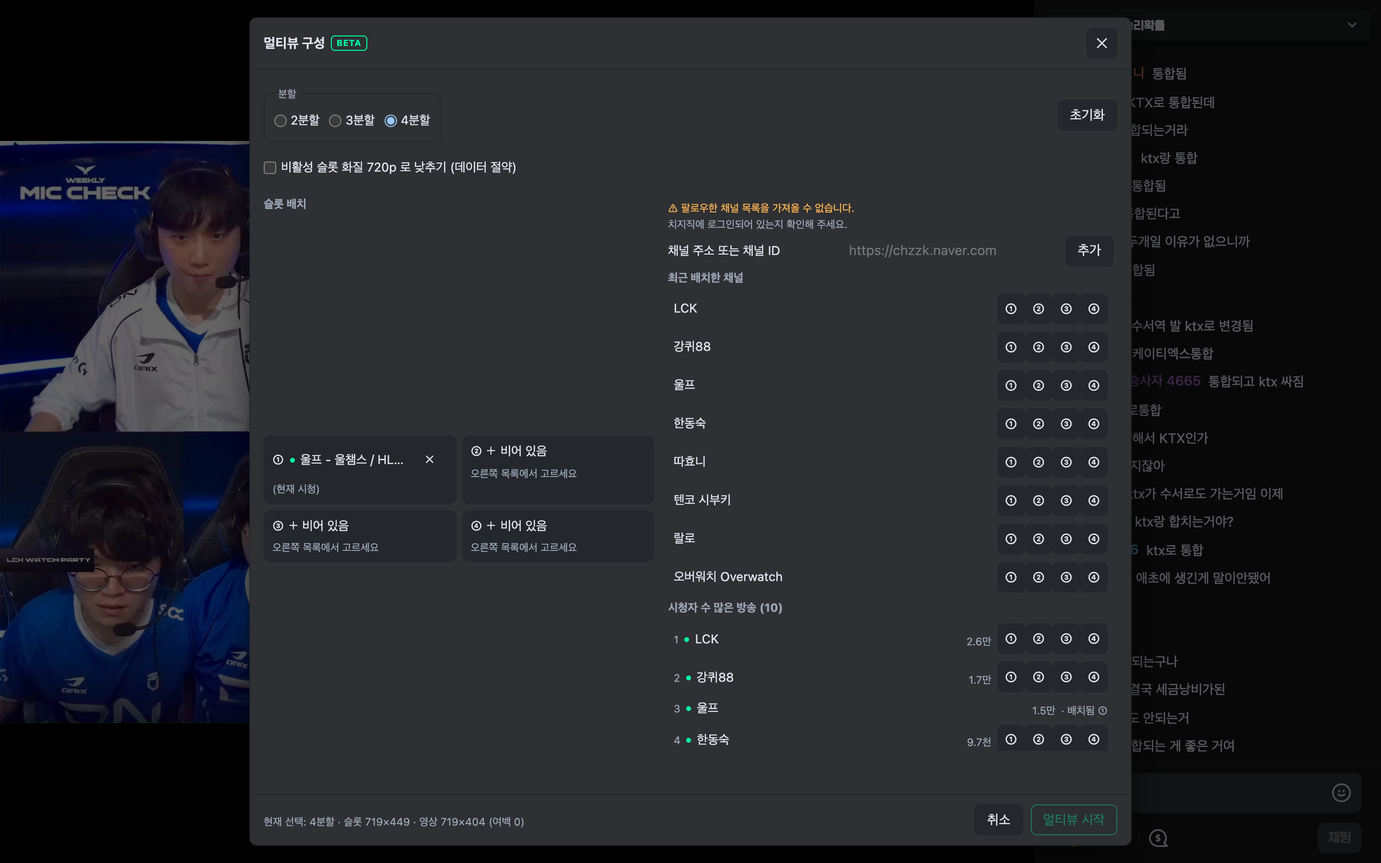
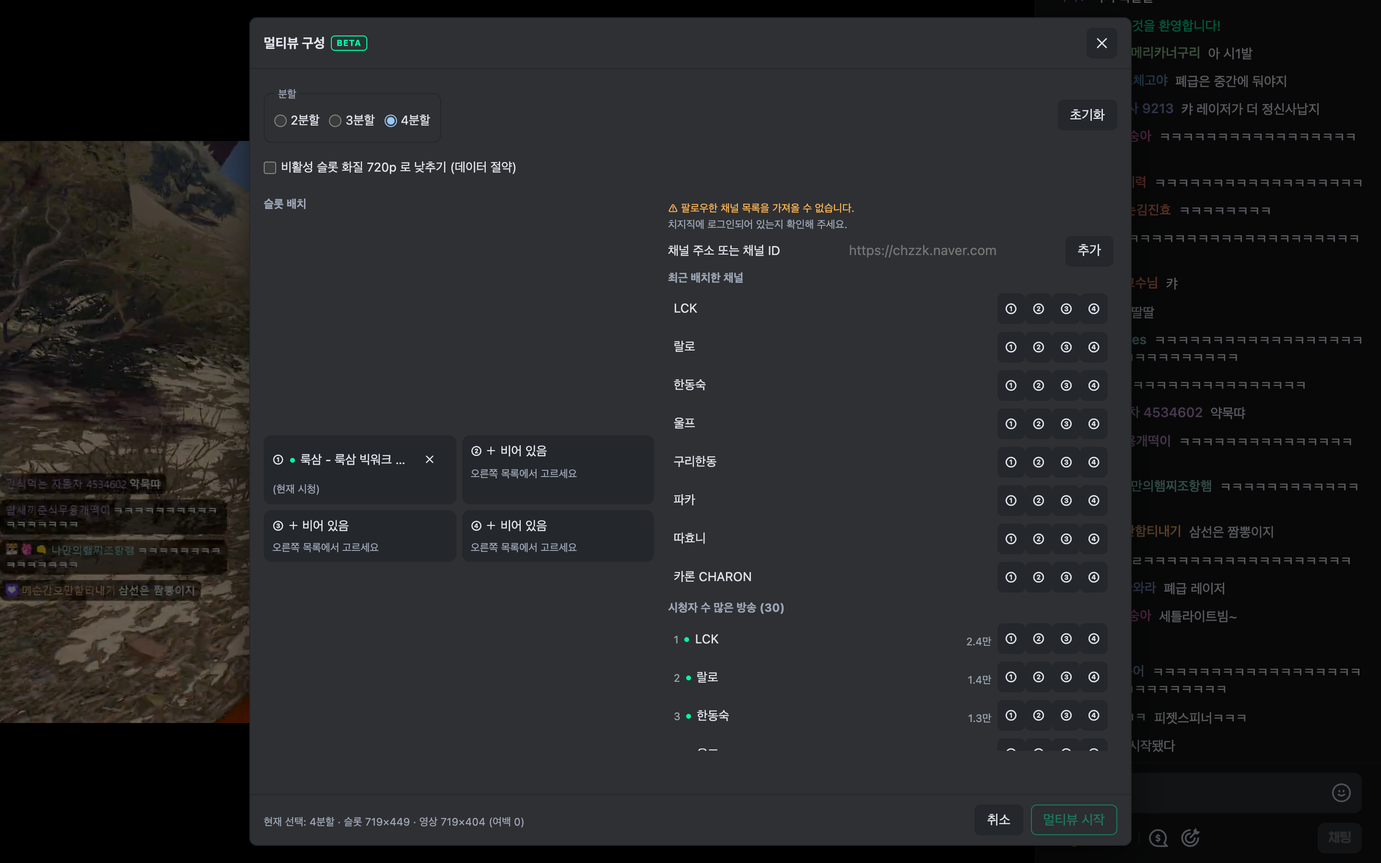
feat: Reach extension settings during multiview, other multiview polish
- Settings panel (volume, compressor, etc.) was unreachable while
  multiview was open — the stage covers the whole screen so the host
  control bar's gear button is hidden underneath it. Add a dedicated
  settings button to the stage's own operation bar (hammer icon,
  distinct from CHZZK's native gear icon) that opens the same settings
  sheet via a window custom event; the sheet's z-index already sits
  above the stage's, so it renders correctly. Verified in a real
  browser: click opens the panel with the 소리 tab's compressor toggle
  reachable and working.
- Offline followed channels no longer show in the multiview channel
  picker — picking one just leaves an empty slot, so they're filtered
  out (with a distinct empty-state message per case: no follows vs.
  none live vs. no search match).
- "더 보기" now loads 30 popular channels per click instead of 10.
- Added a defensive play() retry right after the slot registration
  auto-unmute, for a reported (but not reproduced despite repeated
  real-browser testing) case where autoplay doesn't resume after
  reconfiguring an open multiview session.
- README: corrected the audio compressor's documented default (it's
  enabled by default, the doc said otherwise) and reformatted the
  change history into per-date sections instead of run-on sentences.
- Refreshed demo screenshots.

diff --git a/src/features/multiView/ConfigSheet.tsx b/src/features/multiView/ConfigSheet.tsx
@@ -181,11 +181,18 @@ export function ConfigSheet({
     setFollowVisible(FOLLOW_PAGE_SIZE);
   }, [query]);
 
+  /**
+   * 🔴 오프라인 팔로우 채널은 목록에서 아예 뺀다 (사용자 요청 2026-08-23).
+   * 멀티뷰 슬롯은 지금 방송 중인 채널을 고르는 화면이라, 꺼진 채널을 골라도 빈 슬롯만
+   * 남는다 — 정렬로 뒤로 미루는 것(`followList.ts` 의 `live` 우선 정렬)만으로는
+   * 목록 절반이 고를 수 없는 항목으로 채워지는 문제가 그대로 남는다.
+   */
   const visibleChannels = useMemo(() => {
     if (list.kind !== 'ready') return [];
+    const live = list.channels.filter((c) => c.live);
     const q = query.trim().toLowerCase();
-    if (q.length === 0) return list.channels;
-    return list.channels.filter((c) => c.channelName.toLowerCase().includes(q));
+    if (q.length === 0) return live;
+    return live.filter((c) => c.channelName.toLowerCase().includes(q));
   }, [list, query]);
 
   /** 팔로우를 끝까지 보여 줬는가 — 인기 방송을 이어 붙일지 판단한다. */
@@ -555,24 +562,28 @@ export function ConfigSheet({
                     onChange={(e) => setQuery(e.target.value)}
                   />
                 </div>
+                {visibleChannels.length === 0 ? (
+                  <p className="cm-sheet__note">
+                    {list.channels.length === 0
+                      ? '팔로우한 채널이 없습니다.'
+                      : query.trim().length > 0
+                        ? '검색 결과가 없습니다.'
+                        : '지금 방송 중인 팔로우 채널이 없습니다.'}
+                  </p>
+                ) : null}
                 <ul className="cm-mv-channels">
                   {visibleChannels.slice(0, followVisible).map((channel) => {
                     const placedAt = placedIndexOf(channel.channelId);
                     return (
-                      <li key={channel.channelId} className={channel.live ? '' : 'cm-offline'}>
+                      <li key={channel.channelId}>
                         <span style={{ display: 'inline-flex', alignItems: 'center', gap: 4 }}>
-                          <LiveDotIcon
-                            size={10}
-                            className={channel.live ? 'cm-mv-live--on' : 'cm-mv-live--off'}
-                          />
+                          <LiveDotIcon size={10} className="cm-mv-live--on" />
                           {/* 🔴 색만으로 상태를 전달하지 않는다 — 색약 사용자를 위해 텍스트를 남긴다. */}
-                          <span className={OURS.srOnlyClass}>
-                            {channel.live ? '방송중' : '오프라인'}
-                          </span>
+                          <span className={OURS.srOnlyClass}>방송중</span>
                           {channel.channelName}
                         </span>
                         <span className="cm-sheet__note">
-                          {channel.live ? formatViewers(channel.concurrentUserCount) : '오프라인'}
+                          {formatViewers(channel.concurrentUserCount)}
                         </span>
                         {placedAt !== null ? (
                           <span className="cm-sheet__note">· 배치됨 {CIRCLED[placedAt - 1]}</span>
@@ -672,7 +683,7 @@ export function ConfigSheet({
                     className="cm-sheet__btn"
                     onClick={() => void loadMorePopular()}
                   >
-                    더 보기 (10개)
+                    더 보기 (30개)
                   </button>
                 ) : null}
               </>

diff --git a/src/features/multiView/ConfigSheet.test.tsx b/src/features/multiView/ConfigSheet.test.tsx
@@ -68,11 +68,11 @@ afterEach(() => {
   vi.clearAllMocks();
 });
 
-function followChannel(n: number): FollowChannel {
+function followChannel(n: number, { live = true }: { live?: boolean } = {}): FollowChannel {
   return {
     channelId: `follow-${n}`,
     channelName: `팔로우채널${n}`,
-    live: true,
+    live,
     concurrentUserCount: n,
   };
 }
@@ -177,6 +177,45 @@ describe('ConfigSheet — 채널 목록 섹션은 하나만 렌더된다', () =>
     );
     expect(headings.some((t) => t?.includes('시청자 수 많은 방송'))).toBe(true);
     expect(document.querySelectorAll('.cm-mv-channels > li').length).toBeGreaterThan(0);
+  });
+});
+
+/**
+ * 🔴 사용자 요청 (2026-08-23): 멀티뷰는 지금 방송 중인 채널을 고르는 화면이라, 팔로우한
+ * 채널이라도 지금 오프라인이면 골라도 빈 슬롯만 남는다 — 목록에서 아예 뺀다.
+ */
+describe('ConfigSheet — 팔로우 채널 목록에서 오프라인은 뺀다 (2026-08-23)', () => {
+  it('오프라인 팔로우 채널은 목록에 나타나지 않는다', async () => {
+    vi.mocked(fetchFollowings).mockResolvedValue({
+      ok: true,
+      channels: [followChannel(1, { live: true }), followChannel(2, { live: false })],
+    });
+    vi.mocked(fetchLivePage).mockResolvedValue({ channels: [popularChannel(1)], next: null });
+
+    await mount(<ConfigSheet {...baseProps()} />);
+    await act(async () => {
+      await Promise.resolve();
+    });
+
+    expect(document.body.textContent).toContain('팔로우채널1');
+    expect(document.body.textContent).not.toContain('팔로우채널2');
+  });
+
+  it('팔로우한 채널이 전부 오프라인이면 안내 문구를 보여주고 인기 방송으로 넘어간다', async () => {
+    vi.mocked(fetchFollowings).mockResolvedValue({
+      ok: true,
+      channels: [followChannel(1, { live: false })],
+    });
+    vi.mocked(fetchLivePage).mockResolvedValue({ channels: [popularChannel(1)], next: null });
+
+    await mount(<ConfigSheet {...baseProps()} />);
+    await act(async () => {
+      await Promise.resolve();
+    });
+
+    expect(document.body.textContent).toContain('지금 방송 중인 팔로우 채널이 없습니다.');
+    expect(document.body.textContent).toContain('시청자 수 많은 방송');
+    expect(document.body.textContent).not.toContain('팔로우채널1');
   });
 });
 

diff --git a/src/features/multiView/stage.ts b/src/features/multiView/stage.ts
@@ -925,6 +925,22 @@ export class MultiViewStage {
     bar.appendChild(configButton);
 
     /**
+     * 🔴 스테이지가 화면 전체를 덮어 호스트 컨트롤바의 설정(⚙) 버튼이 가려진다 —
+     * 멀티뷰 중에는 마스터 볼륨·음량 평탄화(컴프레서) 등 설정에 접근할 방법이 없었다
+     * (사용자 보고 2026-08-23). 설정 패널 자체는 z-index 가 스테이지보다 높아(`OURS.topZIndex`)
+     * 열리기만 하면 스테이지 위에 뜬다 — `settingsPanel` 기능에 열기 요청만 보내면 된다.
+     */
+    const settingsButton = document.createElement('button');
+    settingsButton.type = 'button';
+    settingsButton.setAttribute('aria-label', '이지직 설정 열기');
+    settingsButton.appendChild(createIconElement('hammer'));
+    settingsButton.appendChild(barLabel('설정'));
+    settingsButton.addEventListener('click', () => {
+      window.dispatchEvent(new Event(OURS.openSettingsEventName));
+    });
+    bar.appendChild(settingsButton);
+
+    /**
      * 사이드 채팅 컨트롤 — `−`/`+`(폭 조절) · 토글.
      * BETA 사이드 채팅이 생기면서 **전체 화면 전용이 아니게** 됐다 (요청 2026-08-18).
      * 실제 노출 여부는 `updateChatControls()` 가 `chatMode` 로 결정한다.

diff --git a/src/features/multiView/slotFrame.ts b/src/features/multiView/slotFrame.ts
@@ -256,7 +256,24 @@ export function collectRecentChat(
  */
 async function unmuteOnceAtRegistration(getVideo: () => HTMLVideoElement | null): Promise<void> {
   const video = await retry(() => getVideo() ?? undefined);
-  if (video?.muted) video.muted = false;
+  if (!video) return;
+  if (video.muted) video.muted = false;
+  /**
+   * ⚠ 사용자 보고 (2026-08-23, 미검증): 멀티뷰 구성을 바꾸면 슬롯이 다시 로드된 뒤 자동재생이
+   * 안 되고 재생 버튼을 한 번 눌러야 한다고 함. 실브라우저 반복 재현에서는 재현하지 못했으나
+   * (구성 변경 시나리오·최초 진입 모두 자동재생 성공, 6회) — 언마요트가 어떤 타이밍·환경에서
+   * 재생을 멈추게 할 가능성을 배제할 수 없어 안전망으로 `play()` 를 한 번 더 시도한다.
+   * 이미 재생 중이면 아무 효과가 없고, 자동재생 정책이 막으면 그냥 무시된다(`hostPlayer.ts` 와
+   * 같은 처리).
+   */
+  if (video.paused) {
+    try {
+      const started: unknown = video.play();
+      if (started instanceof Promise) started.catch(() => {});
+    } catch {
+      // 자동재생 정책 등으로 거부돼도 여기서 할 수 있는 건 없다 — 조용히 넘어간다.
+    }
+  }
 }
 
 /**

diff --git a/src/ui/icons.tsx b/src/ui/icons.tsx
@@ -80,6 +80,11 @@ export const ICON_PATHS = {
       d: 'M8 2.5v1.6M8 11.9v1.6M13.5 8h-1.6M4.1 8H2.5M11.66 4.34l-1.13 1.13M5.47 10.53l-1.13 1.13M11.66 11.66l-1.13-1.13M5.47 5.47L4.34 4.34',
     },
   ],
+  /**
+   * 멀티뷰 스테이지의 설정 버튼 전용 (2026-08-23). 톱니(gear)는 이미 치지직 순정 설정
+   * 아이콘과 같은 모양이라 헷갈린다는 지적으로, 망치 모양으로 구분했다.
+   */
+  hammer: 'M9.2 6.8L3 13M7.6 3.4L9 2l3 3-1.4 1.4zM8.3 4.1l2.6 2.6',
   compressor: [
     { tag: 'path', d: 'M2 6.3h2.2L7.7 3.2v9.6L4.2 9.7H2z' },
     { tag: 'path', d: 'M9.6 5.6a3.2 3.2 0 0 1 0 4.8' },
@@ -230,6 +235,11 @@ export function SlotsIcon({ size = 16, className }: IconProps) {
 /** `⚙` 대체 — 설정. 원 + 톱니 6개. */
 export function GearIcon({ size = 16, className }: IconProps) {
   return <svg {...strokeSvgProps(size, className)}>{renderIconShapes(ICON_PATHS.gear)}</svg>;
+}
+
+/** 멀티뷰 스테이지 설정 버튼 전용 — 치지직 순정 설정(톱니)과 구분하려고 망치 모양을 쓴다. */
+export function HammerIcon({ size = 16, className }: IconProps) {
+  return <svg {...strokeSvgProps(size, className)}>{renderIconShapes(ICON_PATHS.hammer)}</svg>;
 }
 
 /**

diff --git a/src/constants/class.ts b/src/constants/class.ts
@@ -197,6 +197,14 @@ export const OURS = {
   betaBadgeClass: 'cm-beta-badge',
   /** 스크린 리더 전용(화면에는 보이지 않는) 보조 설명 노드 */
   srOnlyClass: 'cm-sr-only',
+  /**
+   * 멀티뷰 스테이지가 화면 전체를 덮으면 호스트 컨트롤바의 설정(⚙) 버튼이 가려져 누를 수
+   * 없다(사용자 보고 2026-08-23 — 멀티뷰 중 볼륨·컴프레서 설정에 접근할 방법이 없었다).
+   * 두 기능(`multiView`·`settingsPanel`)을 직접 결합하지 않고 `window` 커스텀 이벤트로
+   * 느슨하게 연결한다 — 같은 content script 안에서 도는 다른 기능이라 굳이
+   * `chrome.runtime` 메시지(백그라운드 왕복)를 거칠 필요가 없다.
+   */
+  openSettingsEventName: 'cm-open-settings',
   /** 최상위 z-index (목업 실측값) */
   topZIndex: 2147483647,
 } as const;

diff --git a/src/settingsPanel/index.ts b/src/settingsPanel/index.ts
@@ -74,11 +74,19 @@ export const settingsPanelFeature: Feature = {
     };
     chrome.runtime.onMessage.addListener(onRuntimeMessage);
 
+    /**
+     * 멀티뷰 스테이지가 호스트 설정 버튼을 가릴 때 쓰는 우회 경로.
+     * `constants/class.ts` 의 `OURS.openSettingsEventName` 주석 참조.
+     */
+    const onOpenSettingsEvent = () => open();
+    window.addEventListener(OURS.openSettingsEventName, onOpenSettingsEvent);
+
     info(`settings panel ready (shortcut ${shortcutsEnabled ? 'Alt+Comma' : 'disabled'})`);
 
     return () => {
       if (shortcutsEnabled) window.removeEventListener('keydown', onKeyDown);
       chrome.runtime.onMessage.removeListener(onRuntimeMessage);
+      window.removeEventListener(OURS.openSettingsEventName, onOpenSettingsEvent);
       stopButton();
       close();
       removeStyle(STYLE_ID);

diff --git a/src/features/multiView/configSheetCss.ts b/src/features/multiView/configSheetCss.ts
@@ -190,10 +190,8 @@ export const CONFIG_SHEET_CSS = `
 }
 .cm-mv-channels > li > span:not(:first-child) { flex: 0 0 auto; }
 .cm-mv-channels .cm-sheet__btn { padding: 2px 7px; }
-.cm-offline { opacity: 0.55; }
 /* 방송 상태 점(LiveDotIcon) 색 — currentColor 라 부모에서 color 만 정한다. 빨강은 볼륨 과증폭 경고에 이미 쓰여 의미가 충돌하므로 우리 강조색(ACCENT)을 쓴다. */
 .cm-mv-live--on { color: ${ACCENT}; }
-.cm-mv-live--off { color: ${FG.disabled}; }
 /* 텍스트와 나란히 놓이는 아이콘(빈 슬롯 +, 방송 상태 점) 은 글자 기준선에 맞춰 살짝 내린다. */
 .cm-mv-cell__head svg,
 .cm-mv-channels svg { vertical-align: -1px; }

diff --git a/src/features/multiView/followList.ts b/src/features/multiView/followList.ts
@@ -193,8 +193,8 @@ export type LivePage = {
 
 export type LiveCursor = Record<string, string | number>;
 
-/** 인기 방송 목록 한 번에 불러오는 개수 (요청 사양). */
-export const LIVES_PAGE_SIZE = 10;
+/** 인기 방송 목록 한 번에 불러오는 개수 (사용자 요청 2026-08-23 — 10개는 너무 적었다). */
+export const LIVES_PAGE_SIZE = 30;
 
 /**
  * 목록 요청 URL 을 만든다. **순수 함수 — 테스트 대상.**

diff --git a/src/ui/icons.test.tsx b/src/ui/icons.test.tsx
@@ -15,6 +15,7 @@ import {
   CompressorIcon,
   createIconElement,
   GearIcon,
+  HammerIcon,
   ICON_PATHS,
   LayoutBottomIcon,
   LayoutRightIcon,
@@ -67,6 +68,7 @@ const STROKE_ICONS: Array<[string, ComponentType<IconProps>]> = [
   ['LayoutBottomIcon', LayoutBottomIcon],
   ['GearIcon', GearIcon],
   ['CompressorIcon', CompressorIcon],
+  ['HammerIcon', HammerIcon],
 ];
 
 const ALL_ICONS: Array<[string, ComponentType<IconProps>]> = [

diff --git a/README.md b/README.md
@@ -33,7 +33,7 @@
 |---|---|
 | 기본 시청 — 채팅 부가 요소 숨김 + 컨트롤바에 `멀티`·`⚙` 버튼 삽입, 채팅 폭 조절 `↔` 토글 | ![기본 시청](screenshots/demo-laptop13-watch.png) |
 | 설정 패널 (FR-09.2) — 탭 7개 + 오픈소스 라이선스 고지 진입점 | ![설정 패널](screenshots/demo-laptop13-settings.png) |
-| 멀티뷰 구성 시트 (BETA) — 조작은 상단, 인기 방송 10개씩 추가 로드 | ![멀티뷰 구성](screenshots/demo-laptop13-multiview-config.png) |
+| 멀티뷰 구성 시트 (BETA) — 조작은 상단, 인기 방송 30개씩 추가 로드 | ![멀티뷰 구성](screenshots/demo-laptop13-multiview-config.png) |
 | 멀티뷰 시청 (BETA) — 4분할 | ![멀티뷰 시청](screenshots/demo-laptop13-multiview.png) |
 
 ### 모바일 (데스크톱 사이트 요청 상태)
@@ -60,7 +60,7 @@
 | FR-02 | 음소거 자동 해제 + 기본 볼륨 50% | 브라우저 자동재생 정책상 최초 클릭까지 미뤄질 수 있다 |
 | FR-03 | `+` / `-` 볼륨 조절 (10% 단위) | 증감 폭 5 / 10 / 20% 선택 |
 | FR-03.2 | **볼륨 100% 초과 증폭 (최대 200%)** | `video.volume` 은 0~1 이라 Web Audio 게인으로 올린다. 100% 를 넘으면 표시가 **주황색** |
-| FR-19 | **음량 평탄화(오디오 컴프레서)** | 기본 꺼짐. 방송마다 다른 음량을 눌러 균일하게. 구현은 chzzk-plus(MIT) 참조 |
+| FR-19 | **음량 평탄화(오디오 컴프레서)** | **기본 켜짐.** 방송마다 다른 음량을 눌러 균일하게. 구현은 chzzk-plus(MIT) 참조 |
 | FR-04 | 자주 쓰는 채팅 저장·바로 쓰기 | 최대 50개, 기본 동작은 즉시 전송. 문구 버튼은 **`후원하기` 왼쪽**에 들어간다 |
 | FR-05 | 채팅창 점유율 조절 (15~50%) | 평소에는 **`↔` 토글 하나**만 `채팅` 버튼 왼쪽에 두고, 펼치면 `+ − ⟩ ▦` 가 나온다. 세로 자세에서는 채팅이 **영상 아래**로 간다 |
 | FR-06 | 통나무(파워) 자동 수집 | **기본 끄기** — 아래 주의 참조 |
@@ -332,7 +332,37 @@ MIT License · Copyright (c) 2026 Arc-Jung
 
 ## 변경 이력
 
-- **2026-08-23** — 초점 슬롯의 초록 테두리 강조 표시 제거(버튼 상태 자체는 유지), 초광폭 화면(비율 1.8 이상 — 21:9·32:9 데스크톱 모니터부터 맥시마이즈한 노트북·태블릿 가로까지 모두 해당)에서 영상을 왼쪽에 붙일지 가운데(치지직 기본값)에 둘지 선택하는 옵션 추가(전체화면 여부와 무관하게 적용), **멀티뷰 슬롯의 자동 화질 변경·자동 음소거 해제가 먹통이던 문제 수정** — 화질은 설정 메뉴를 열어야 하는 경로에서 재시도가 전혀 없었고 목표 항목을 찾고도 합성 클릭이 반영되지 않았음(키보드 Enter 활성화로 교체), 음소거는 2026-08-20 정책 변경 때 등록 시 자동 해제 지시가 함께 사라져 자동재생 정책으로 음소거된 슬롯을 아무도 풀어주지 않았음(등록 시 1회 해제 복원), 음량 평탄화(컴프레서) 아이콘이 허공에 뜬 선처럼 보이던 문제 수정, 멀티뷰 구성 시트에서 슬롯 배치가 짧을 때 아래에 남던 빈 공간을 세로 가운데 정렬로 정리, 저장된 조합이 없거나 꽉 찼을 때 비활성화되는 "현재 구성 저장" 버튼에 이유를 안내하는 title 추가, README 정리(불필요한 서술 제거·오래된 내용 갱신)
-- **2026-08-22** — 데모 스크린샷 갱신, 광고 차단 안내 재시도 로직 정리, **멀티뷰 사이드/슬롯 채팅 기능 임시 비활성화**(버그 다수 발견, 재작업 예정 — 설정에서 선택할 수 없고 저장값과 무관하게 표시되지 않는다), 멀티뷰 진입 클릭을 원본 재생 조작으로 오인해 원본 소리가 겹치던 문제 수정, 초점 슬롯에 초록 테두리 표시 복원(초점 버튼이 먹통으로 보이던 문제), 모바일 세로 2분할에서 슬롯 높이의 약 45%가 검은 여백이던 레이아웃 수정
-- **2026-08-21** — 볼륨 컨트롤에 라우드니스 컴프레서 토글 추가, 채팅 폭 조절·프리셋 UI를 플레이어 우측 중앙으로 재배치, 멀티뷰 오디오 라우팅 제거, 남은 텍스트/글리프 아이콘을 공용 SVG로 교체, 라이선스 고지를 설정 탭으로 이동, 팝업 스크롤·접근성 보강
-- **2026-08-20** — ezzzk 최초 공개 릴리스 (기본 시청 화면 정리, 설정 패널, 멀티뷰 베타, 클린봇 기본 해제 등)
+### 2026-08-23
+
+- **멀티뷰 슬롯 자동 화질 변경이 먹통이던 문제 수정** — 설정 메뉴를 열어야 하는 경로에서 재시도가 전혀 없었고, 목표 항목을 찾고도 합성 클릭이 반영되지 않았음(키보드 Enter 활성화로 교체)
+- **멀티뷰 슬롯 자동 음소거 해제가 먹통이던 문제 수정** — 2026-08-20 정책 변경 때 등록 시 자동 해제 지시가 함께 사라져, 자동재생 정책으로 음소거된 슬롯을 아무도 풀어주지 않았음(등록 시 1회 해제 복원)
+- **멀티뷰 중에도 확장 설정에 접근 가능** — 스테이지가 화면 전체를 덮어 호스트 설정(⚙) 버튼이 가려지던 문제. 스테이지 조작 바에 전용 설정 버튼(망치 아이콘 — 치지직 순정 톱니 아이콘과 구분) 추가
+- **멀티뷰 채널 목록에서 오프라인인 팔로우 채널은 숨김** — 지금 방송 중인 채널만 골라야 빈 슬롯이 안 생긴다
+- **인기 방송 "더 보기" 1회당 10개 → 30개**로 확대
+- **멀티뷰 구성 변경 후 자동재생이 안 될 수 있는 문제에 안전망 추가** — 슬롯 언마요트 직후 일시정지 상태면 재생을 한 번 더 시도(실브라우저 재현은 못했으나 예방 차원)
+- 초광폭 화면(비율 1.8 이상 — 21:9·32:9 데스크톱 모니터부터 맥시마이즈한 노트북·태블릿 가로까지 모두 해당)에서 영상을 왼쪽/가운데 중 선택하는 옵션 추가(전체화면 여부와 무관하게 적용)
+- 초점 슬롯의 초록 테두리 강조 표시 제거(버튼 상태 자체는 유지)
+- 음량 평탄화(컴프레서) 아이콘이 허공에 뜬 선처럼 보이던 문제 수정
+- 멀티뷰 구성 시트에서 슬롯 배치가 짧을 때 아래에 남던 빈 공간을 세로 가운데 정렬로 정리
+- 저장된 조합이 없거나 꽉 찼을 때 비활성화되는 "현재 구성 저장" 버튼에 이유를 안내하는 title 추가
+- README 정리 — 불필요한 서술 제거, 오래된 내용(초록 테두리 등) 갱신, 오디오 컴프레서 기본값 표기 수정("기본 꺼짐" → 실제 기본값인 "기본 켜짐"), 변경 이력 포맷 정리
+
+### 2026-08-22
+
+- 데모 스크린샷 갱신, 광고 차단 안내 재시도 로직 정리
+- **멀티뷰 사이드/슬롯 채팅 기능 임시 비활성화** — 버그 다수 발견, 재작업 예정. 설정에서 선택할 수 없고 저장값과 무관하게 표시되지 않는다
+- 멀티뷰 진입 클릭을 원본 재생 조작으로 오인해 원본 소리가 겹치던 문제 수정
+- 초점 슬롯에 초록 테두리 표시 복원(초점 버튼이 먹통으로 보이던 문제)
+- 모바일 세로 2분할에서 슬롯 높이의 약 45%가 검은 여백이던 레이아웃 수정
+
+### 2026-08-21
+
+- 볼륨 컨트롤에 라우드니스 컴프레서 토글 추가
+- 채팅 폭 조절·프리셋 UI를 플레이어 우측 중앙으로 재배치
+- 멀티뷰 오디오 라우팅 제거
+- 남은 텍스트/글리프 아이콘을 공용 SVG로 교체
+- 라이선스 고지를 설정 탭으로 이동, 팝업 스크롤·접근성 보강
+
+### 2026-08-20
+
+- ezzzk 최초 공개 릴리스 (기본 시청 화면 정리, 설정 패널, 멀티뷰 베타, 클린봇 기본 해제 등)

diff --git a/screenshots/README-snippet.md b/screenshots/README-snippet.md
@@ -1,15 +1,15 @@
 <!-- `yarn demo:shots` 로 생성된 목록. 실제 방송을 찍으므로 매 실행마다 채널이 다르다. -->
 <!-- 멀티뷰 시청 화면은 슬롯 컨텍스트 메뉴가 새어 나오면 저장 자체가 실패한다. -->
 
-| 기본 시청 화면 — 채팅 부가 요소 숨김 + 컨트롤바 버튼 삽입 (mobile-landscape · 윤가놈) | ![기본 시청 화면 — 채팅 부가 요소 숨김 + 컨트롤바 버튼 삽입](screenshots/demo-mobile-landscape-watch.png) |
-| 설정 패널 (FR-09.2) (mobile-landscape · 파카) | ![설정 패널 (FR-09.2)](screenshots/demo-mobile-landscape-settings.png) |
-| 멀티뷰 구성 시트 — 조작은 상단, 인기 방송 10개씩 추가 로드 (mobile-landscape · 울프) | ![멀티뷰 구성 시트 — 조작은 상단, 인기 방송 10개씩 추가 로드](screenshots/demo-mobile-landscape-multiview-config.png) |
-| 멀티뷰 시청 화면 (기기 상한에 맞춰 2·4분할) (mobile-landscape · 유즈하 리코) | ![멀티뷰 시청 화면 (기기 상한에 맞춰 2·4분할)](screenshots/demo-mobile-landscape-multiview.png) |
-| 기본 시청 화면 — 채팅 부가 요소 숨김 + 컨트롤바 버튼 삽입 (mobile-portrait · 윤가놈) | ![기본 시청 화면 — 채팅 부가 요소 숨김 + 컨트롤바 버튼 삽입](screenshots/demo-mobile-portrait-watch.png) |
-| 설정 패널 (FR-09.2) (mobile-portrait · 파카) | ![설정 패널 (FR-09.2)](screenshots/demo-mobile-portrait-settings.png) |
-| 멀티뷰 구성 시트 — 조작은 상단, 인기 방송 10개씩 추가 로드 (mobile-portrait · 울프) | ![멀티뷰 구성 시트 — 조작은 상단, 인기 방송 10개씩 추가 로드](screenshots/demo-mobile-portrait-multiview-config.png) |
-| 멀티뷰 시청 화면 (기기 상한에 맞춰 2·4분할) (mobile-portrait · 유즈하 리코) | ![멀티뷰 시청 화면 (기기 상한에 맞춰 2·4분할)](screenshots/demo-mobile-portrait-multiview.png) |
-| 기본 시청 화면 — 채팅 부가 요소 숨김 + 컨트롤바 버튼 삽입 (laptop13 · 윤가놈) | ![기본 시청 화면 — 채팅 부가 요소 숨김 + 컨트롤바 버튼 삽입](screenshots/demo-laptop13-watch.png) |
-| 설정 패널 (FR-09.2) (laptop13 · 파카) | ![설정 패널 (FR-09.2)](screenshots/demo-laptop13-settings.png) |
-| 멀티뷰 구성 시트 — 조작은 상단, 인기 방송 10개씩 추가 로드 (laptop13 · 울프) | ![멀티뷰 구성 시트 — 조작은 상단, 인기 방송 10개씩 추가 로드](screenshots/demo-laptop13-multiview-config.png) |
-| 멀티뷰 시청 화면 (기기 상한에 맞춰 2·4분할) (laptop13 · 유즈하 리코) | ![멀티뷰 시청 화면 (기기 상한에 맞춰 2·4분할)](screenshots/demo-laptop13-multiview.png) |
+| 기본 시청 화면 — 채팅 부가 요소 숨김 + 컨트롤바 버튼 삽입 (mobile-landscape · 구리한동) | ![기본 시청 화면 — 채팅 부가 요소 숨김 + 컨트롤바 버튼 삽입](screenshots/demo-mobile-landscape-watch.png) |
+| 설정 패널 (FR-09.2) (mobile-landscape · 탬탬버린) | ![설정 패널 (FR-09.2)](screenshots/demo-mobile-landscape-settings.png) |
+| 멀티뷰 구성 시트 — 조작은 상단, 인기 방송 10개씩 추가 로드 (mobile-landscape · 룩삼) | ![멀티뷰 구성 시트 — 조작은 상단, 인기 방송 10개씩 추가 로드](screenshots/demo-mobile-landscape-multiview-config.png) |
+| 멀티뷰 시청 화면 (기기 상한에 맞춰 2·4분할) (mobile-landscape · 괴물쥐) | ![멀티뷰 시청 화면 (기기 상한에 맞춰 2·4분할)](screenshots/demo-mobile-landscape-multiview.png) |
+| 기본 시청 화면 — 채팅 부가 요소 숨김 + 컨트롤바 버튼 삽입 (mobile-portrait · 구리한동) | ![기본 시청 화면 — 채팅 부가 요소 숨김 + 컨트롤바 버튼 삽입](screenshots/demo-mobile-portrait-watch.png) |
+| 설정 패널 (FR-09.2) (mobile-portrait · 탬탬버린) | ![설정 패널 (FR-09.2)](screenshots/demo-mobile-portrait-settings.png) |
+| 멀티뷰 구성 시트 — 조작은 상단, 인기 방송 10개씩 추가 로드 (mobile-portrait · 룩삼) | ![멀티뷰 구성 시트 — 조작은 상단, 인기 방송 10개씩 추가 로드](screenshots/demo-mobile-portrait-multiview-config.png) |
+| 멀티뷰 시청 화면 (기기 상한에 맞춰 2·4분할) (mobile-portrait · 괴물쥐) | ![멀티뷰 시청 화면 (기기 상한에 맞춰 2·4분할)](screenshots/demo-mobile-portrait-multiview.png) |
+| 기본 시청 화면 — 채팅 부가 요소 숨김 + 컨트롤바 버튼 삽입 (laptop13 · 구리한동) | ![기본 시청 화면 — 채팅 부가 요소 숨김 + 컨트롤바 버튼 삽입](screenshots/demo-laptop13-watch.png) |
+| 설정 패널 (FR-09.2) (laptop13 · 탬탬버린) | ![설정 패널 (FR-09.2)](screenshots/demo-laptop13-settings.png) |
+| 멀티뷰 구성 시트 — 조작은 상단, 인기 방송 10개씩 추가 로드 (laptop13 · 룩삼) | ![멀티뷰 구성 시트 — 조작은 상단, 인기 방송 10개씩 추가 로드](screenshots/demo-laptop13-multiview-config.png) |
+| 멀티뷰 시청 화면 (기기 상한에 맞춰 2·4분할) (laptop13 · 괴물쥐) | ![멀티뷰 시청 화면 (기기 상한에 맞춰 2·4분할)](screenshots/demo-laptop13-multiview.png) |
